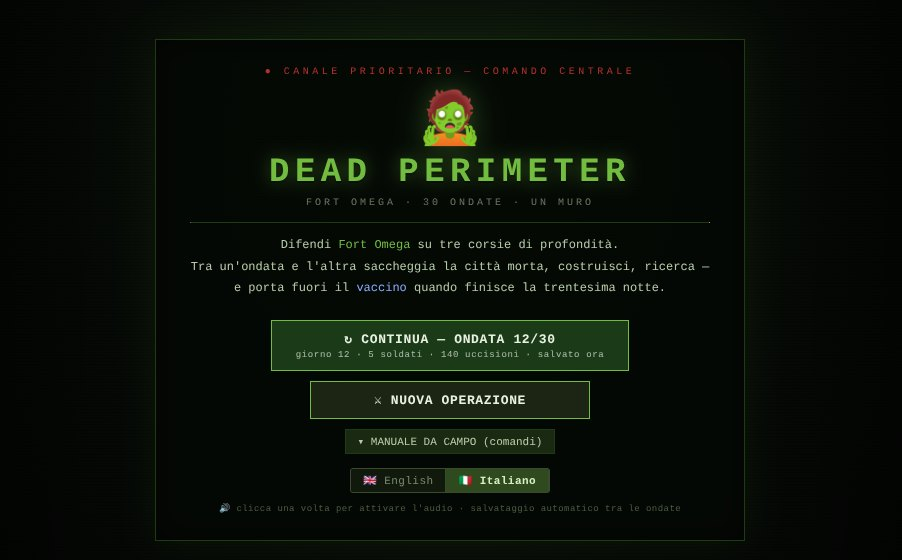
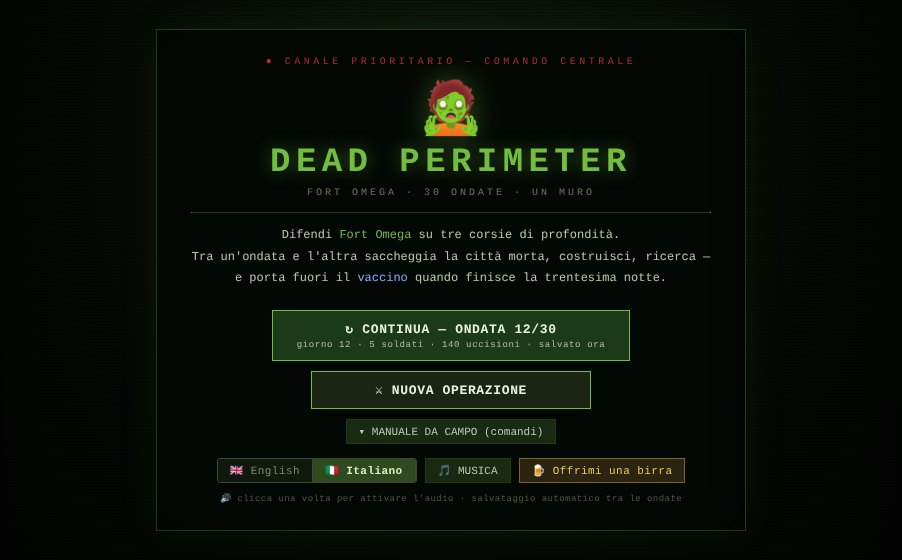
Keep civilians off sorties unless they volunteer
Civilians are there to be evacuated: the sortie picker shows them greyed
out. When fewer than two people are fit for a sortie, the expedition
screen offers ASK FOR VOLUNTEERS: each civilian in the squad accepts or
refuses (fixed per-person willingness, roll seeded by name and day).
Volunteers stay volunteers, are saved and survive bench/activate, and on
sorties aim less steadily and have less stamina.

Also updates the Italian menu screenshot.

diff --git a/src/DeadPerimeter.jsx b/src/DeadPerimeter.jsx
@@ -14,7 +14,7 @@ import { isHumanWaveNumber } from './data/humans.js';
 
 import { getAM, processSounds } from './audio/AudioEngine.js';
 
-import { mkSoldier } from './entities/soldier.js';
+import { mkSoldier, benchEntry, reserveOpts } from './entities/soldier.js';
 import { mkBarricade } from './entities/barricade.js';
 import { mkTurret } from './entities/turret.js';
 import { mkWave, mkHumanWave } from './entities/wave.js';
@@ -26,6 +26,7 @@ import { ensureQuests, refreshOffers, acceptJob, declineJob, deliverJob, canDeli
 import { MAX_ACTIVE, FORT_UNLOCKS, STORY } from './data/quests.js';
 import { cityDests, ensureCity, applyCityVisit } from './data/city.js';
 import { rollSiegeEvent } from './update/siegeEvents.js';
+import { sortieReady, askableCivilians, shortOfMen, askVolunteers } from './update/volunteers.js';
 import { dSiegeEvent } from './render/siegeEvents.js';
 import { WAVE_MODS, rollWaveMod, isBossWave, bossName } from './data/waveMods.js';
 import { mkGS } from './entities/gameState.js';
@@ -213,7 +214,7 @@ export default function DeadPerimeter() {
     const cur = expSolsRef.current;
     if (cur.includes(i)) {
       expSolsRef.current = cur.filter(x => x !== i);
-    } else if (cur.length < BALANCE.maxExpeditionParty) {
+    } else if (cur.length < BALANCE.maxExpeditionParty && sortieReady(gsRef.current?.soldiers?.[i] || {})) {
       expSolsRef.current = [...cur, i];
     } else {
       return;
@@ -221,6 +222,17 @@ export default function DeadPerimeter() {
     setExpSoldierIdxs([...expSolsRef.current]);
   }, []);
   const pickDest = useCallback(i => { expDstRef.current = i; setExpDestIdx(i); }, []);
+  // ASK FOR VOLUNTEERS: who stepped up / who refused, shown under the party.
+  const [volNote, setVolNote] = useState(null);
+  const askVols = useCallback(() => {
+    const gs = gsRef.current; if (!gs) return;
+    const res = askVolunteers(gs);
+    if (res.yes.length) logRadio({ line: 'Volunteers: {names}. Out there, keep the new ones behind you.', params: { names: res.yes.join(', ') }, who: { npc: 'hale' }, npc: true });
+    else logRadio({ line: "Nobody's stepping up. Can't say I blame them.", who: { npc: 'hale' }, npc: true });
+    saveGame(gs); setHasSave(true);
+    setVolNote(res);
+    setUi({ ...gs, soldiers: gs.soldiers.map(s => ({ ...s })) });
+  }, []);
 
   const toggleMute = useCallback(() => {
     const am = getAM();
@@ -477,7 +489,7 @@ export default function DeadPerimeter() {
     const gs = gsRef.current;
     if ((gs.expeditionsToday || 0) >= sortiesPerDay(gs)) return;
 
-    const party = idxs.map(i => gs.soldiers[i]).filter(s => s && s.state !== 'dead');
+    const party = idxs.map(i => gs.soldiers[i]).filter(s => s && s.state !== 'dead' && sortieReady(s));
     if (party.length === 0) return;
     const dest = expDestsRef.current[di];
     if (!dest) return;
@@ -756,7 +768,7 @@ export default function DeadPerimeter() {
     if (s.onRoof) return;
     if ((gs.reserve?.length || 0) >= BALANCE.maxReserveSoldiers) return;
     gs.reserve = gs.reserve || [];
-    gs.reserve.push({ name: s.name, weapon: s.weapon, civilian: !!s.civilian, veteran: !!s.veteran, hp: s.hp });
+    gs.reserve.push(benchEntry(s));
     gs.soldiers.splice(idx, 1);
     saveGame(gs); setHasSave(true);
     setUi({ ...gs, soldiers: gs.soldiers.map(s => ({ ...s })) });
@@ -766,7 +778,7 @@ export default function DeadPerimeter() {
     const gs = gsRef.current; if (!gs) return;
     const r = (gs.reserve || [])[idx]; if (!r) return;
     if (gs.soldiers.filter(s => s.state !== 'dead').length >= BALANCE.maxActiveSoldiers) return;
-    const ns = mkSoldier(r.name, r.weapon, 270, r.hp ?? 100, Math.floor(Math.random() * 3), !!r.civilian, false, { veteran: !!r.veteran });
+    const ns = mkSoldier(r.name, r.weapon, 270, r.hp ?? 100, Math.floor(Math.random() * 3), !!r.civilian, false, reserveOpts(r));
     ns.ammo = 0;
     gs.soldiers.push(ns);
     gs.reserve.splice(idx, 1);
@@ -1730,7 +1742,7 @@ export default function DeadPerimeter() {
   const resetExp = () => {
     setExpResult(null); setExpPhase(null); setExpEvents([]); setExpVisible(0);
     expSolsRef.current = []; expDstRef.current = null;
-    setExpSoldierIdxs([]); setExpDestIdx(null);
+    setExpSoldierIdxs([]); setExpDestIdx(null); setVolNote(null);
     // Destinations = every discovered location on the city map.
     expDestsRef.current = gsRef.current ? cityDests(gsRef.current) : [];
     setExpDests(expDestsRef.current);
@@ -1787,15 +1799,39 @@ export default function DeadPerimeter() {
               if (s.state === 'dead') return null;
               const picked = expSoldierIdxs.includes(i);
               const order = picked ? expSoldierIdxs.indexOf(i) + 1 : null;
+              // Civilians wait for the helicopter; only volunteers go out.
+              if (!sortieReady(s)) return (
+                <div key={s.id} title={t('Civilians are not sent on sorties. Ask for volunteers when the fort is short of men.')}
+                  style={{ ...card, cursor: 'not-allowed', borderColor: '#2a2a26', opacity: 0.4 }}>
+                  <div style={{ color: '#88ddff', fontWeight: 'bold', fontSize: '11px' }}>{s.name}</div>
+                  <div style={{ fontSize: '9px', color: C.txt }}>{t(WPN[s.weapon]?.name)}</div>
+                  <div style={{ fontSize: '9px', color: '#88ddff' }}>{t('civilian — to evacuate')}</div>
+                </div>
+              );
               return (
                 <div key={s.id} onClick={() => toggleSoldier(i)} style={{ ...card, cursor: 'pointer', borderColor: picked ? C.acc : C.uib, opacity: picked ? 1 : 0.7, position: 'relative' }}>
                   {order && <div style={{ position: 'absolute', top: 4, right: 6, background: C.acc, color: '#061006', fontSize: '9px', fontWeight: 'bold', borderRadius: '50%', width: '14px', height: '14px', textAlign: 'center', lineHeight: '14px' }}>{order}</div>}
                   <div style={{ color: C.acc, fontWeight: 'bold', fontSize: '11px' }}>{s.name}</div>
                   <div style={{ fontSize: '9px', color: C.txt }}>{t(WPN[s.weapon]?.name)}</div>
-                  <div style={{ fontSize: '9px', color: s.hp > 60 ? C.acc : s.hp > 30 ? C.wrn : C.dng }}>{s.hp}HP</div>
+                  <div style={{ fontSize: '9px', color: s.hp > 60 ? C.acc : s.hp > 30 ? C.wrn : C.dng }}>{s.hp}HP{s.volunteer && <span style={{ color: '#88ddff', marginLeft: '4px' }}>{t('· volunteer')}</span>}</div>
                 </div>
               );
             })}</div>
+            {gs && shortOfMen(gs) && (askableCivilians(gs).length > 0 || volNote) && (
+              <div style={{ marginTop: '6px', display: 'flex', gap: '8px', alignItems: 'center', flexWrap: 'wrap' }}>
+                {askableCivilians(gs).length > 0 && (
+                  <button style={{ ...btn('#1a2a3a', '#4488aa'), fontSize: '11px', padding: '4px 12px' }} onClick={askVols}>{t('🙋 ASK FOR VOLUNTEERS')}</button>
+                )}
+                <span style={{ fontSize: '9px', color: C.txt, opacity: 0.7 }}>{t('Fewer than {n} men fit for a sortie: the civilians in the squad can be asked to go out.', { n: BALANCE.volunteerMinAble })}</span>
+              </div>
+            )}
+            {volNote && (
+              <div style={{ fontSize: '10px', marginTop: '4px', lineHeight: '1.5' }}>
+                {volNote.yes.length > 0 && <div style={{ color: C.acc }}>{t('Stepped up: {names}', { names: volNote.yes.join(', ') })}</div>}
+                {volNote.no.length > 0 && <div style={{ color: C.wrn }}>{t('Refused: {names}', { names: volNote.no.join(', ') })}</div>}
+                {volNote.yes.length === 0 && <div style={{ color: C.dng }}>{t('Nobody volunteered today.')}</div>}
+              </div>
+            )}
             <div style={h2}>{t('CHOOSE DESTINATION')}</div>
             {gs && <CityMap city={ensureCity(gsRef.current || gs)} dests={expDests} selected={expDestIdx} onPick={pickDest} day={gs.day} jobs={ensureQuests(gsRef.current || gs).active} />}
             {gs && expDestIdx !== null && expDests[expDestIdx] && expDests[expDestIdx].locId === 'compound' && (
@@ -2290,6 +2326,7 @@ export default function DeadPerimeter() {
                   <div style={{ color: s.state === 'dead' ? C.dng : C.acc, fontWeight: 'bold', fontSize: '11px' }}>
                     {s.name} {s.state === 'dead' && '†'}
                     {s.civilian && s.state !== 'dead' && <span style={{ color: '#88ddff', fontSize: '9px', marginLeft: '2px' }}>{t('· civ')}</span>}
+                    {s.volunteer && s.state !== 'dead' && <span style={{ color: '#88ddff', fontSize: '9px', marginLeft: '2px' }}>{t('· volunteer')}</span>}
                     {s.veteran && s.state !== 'dead' && <span style={{ color: '#ffd54a', fontSize: '9px', marginLeft: '2px' }}>{t('· vet')}</span>}
                   </div>
                   <div style={{ fontSize: '9px', color: C.txt }}>{t(WPN[s.weapon]?.name)} · {t('Lane')} {t('FMB')[s.lane || 0]}</div>

diff --git a/src/update/volunteers.js b/src/update/volunteers.js
@@ -1,0 +1,40 @@
+// Civilian volunteers. Civilians in the squad man the wall but are not
+// sent on sorties: they are waiting for the helicopter. When the fort
+// is short of men the player can ask them to step up; a volunteer
+// stays one for good (soldier.volunteer, saved with the game).
+import { BALANCE } from '../data/difficulty.js';
+
+// Small string hash with a final mix, so 'name' and 'name|day' land
+// far apart.
+function hash01(str) {
+  let h = 0;
+  for (let i = 0; i < str.length; i++) h = (h * 31 + str.charCodeAt(i)) | 0;
+  h ^= h >>> 16; h = Math.imul(h, 0x45d9f3b); h ^= h >>> 16;
+  return (h >>> 0) / 4294967296;
+}
+
+export const sortieReady = s => !s.civilian || !!s.volunteer;
+
+// People who could go on a sortie today: alive, at the fort, and not a
+// civilian waiting for evac.
+export const ableForSortie = gs => (gs?.soldiers || []).filter(s => s.state !== 'dead' && !s.onExpedition && sortieReady(s));
+
+// Civilians in the squad who could be asked. Benched civilians (the
+// reserve) are not asked: they are the ones queued for the helicopter.
+export const askableCivilians = gs => (gs?.soldiers || []).filter(s => s.state !== 'dead' && !s.onExpedition && s.civilian && !s.volunteer);
+
+export const shortOfMen = gs => ableForSortie(gs).length < BALANCE.volunteerMinAble;
+
+// Willingness is a fixed trait per person (25-75%); the roll is seeded
+// by name and day, so asking twice in a day gets the same answer and a
+// new day gets a new one.
+export const willingness = s => 0.25 + 0.5 * hash01(`will|${s.name}`);
+
+export function askVolunteers(gs) {
+  const yes = [], no = [];
+  for (const s of askableCivilians(gs)) {
+    if (hash01(`ask|${s.name}|${gs.day}`) < willingness(s)) { s.volunteer = true; yes.push(s.name); }
+    else no.push(s.name);
+  }
+  return { yes, no };
+}

diff --git a/src/expedition/vaccineCampaign.js b/src/expedition/vaccineCampaign.js
@@ -2,7 +2,7 @@ import { ammoPool } from '../data/weapons.js';
 import { hasUnlock } from '../update/quests.js';
 import { mkMission } from '../update/mission.js';
 import { VACCINE_SCENARIOS } from '../data/vaccineMission.js';
-import { mkSoldier } from '../entities/soldier.js';
+import { mkSoldier, benchEntry, reserveOpts } from '../entities/soldier.js';
 import { recordDeath } from '../entities/gameState.js';
 import { KIND_HP, RECRUIT_WEAPONS } from '../data/expeditions.js';
 
@@ -20,7 +20,7 @@ function gatherVaccineParty(gs) {
   for (const r of (gs.reserve || [])) {
     const weapon = r.weapon || RECRUIT_WEAPONS[0];
     const hp = r.hp ?? (r.civilian ? KIND_HP.civilian : r.veteran ? KIND_HP.veteran : KIND_HP.recruit);
-    const s = mkSoldier(r.name, weapon, 200, hp, 0, !!r.civilian, false, { veteran: !!r.veteran });
+    const s = mkSoldier(r.name, weapon, 200, hp, 0, !!r.civilian, false, reserveOpts(r));
     s.state = 'idle';
     s.fromReserve = true;
     promoted.push(s);
@@ -238,11 +238,7 @@ export function finishVaccineCampaign(campaign, gs) {
     const idx = gs.soldiers.indexOf(s);
     if (idx >= 0) gs.soldiers.splice(idx, 1);
     if (s.state !== 'dead') {
-      gs.reserve.push({
-        name: s.name, weapon: s.weapon,
-        civilian: !!s.civilian, veteran: !!s.veteran,
-        hp: s.hp,
-      });
+      gs.reserve.push(benchEntry(s));
     }
   }
   // advanceVaccineScenario already counted the last act when it ran out

diff --git a/src/entities/soldier.js b/src/entities/soldier.js
@@ -14,7 +14,7 @@ function pickVoicePitch(name, kind) {
 }
 
 // mkSoldier(name, weapon, destX, hp?, lane?, civilian?, onRoof?, opts?)
-//   opts = { veteran?: bool }
+//   opts = { veteran?: bool, volunteer?: bool }
 // HP cap depends on the kind: civilians 70, veterans 120, recruits 100.
 // hp defaults to that cap when not explicitly passed.
 export const mkSoldier = (name, weapon, destX, hp, lane = 0, civilian = false, onRoof = false, opts = {}) => {
@@ -29,6 +29,7 @@ export const mkSoldier = (name, weapon, destX, hp, lane = 0, civilian = false, o
     kind,
     ammo: 0, maxAmmo: w.ammo, state: 'walk', facing: 1,
     civilian, veteran, onRoof,
+    ...(civilian && opts.volunteer ? { volunteer: true } : {}),
     voicePitch: pickVoicePitch(name, kind),
     lastShot: 0, reloadStart: 0, shootAt: 0, knifeTimer: 0, recoil: 0,
     walkPhase: Math.random() * Math.PI * 2, hurtTimer: 0, reloadTriggered: false,
@@ -38,3 +39,11 @@ export const mkSoldier = (name, weapon, destX, hp, lane = 0, civilian = false, o
     upgrades: {},
   };
 };
+
+// Bench entry (gs.reserve) for a soldier, and the mkSoldier opts to
+// bring one back.
+export const benchEntry = s => ({
+  name: s.name, weapon: s.weapon, civilian: !!s.civilian, veteran: !!s.veteran,
+  ...(s.volunteer ? { volunteer: true } : {}), hp: s.hp,
+});
+export const reserveOpts = r => ({ veteran: !!r.veteran, volunteer: !!r.volunteer });

diff --git a/src/entities/persistence.js b/src/entities/persistence.js
@@ -35,6 +35,7 @@ export function saveGame(gs) {
         state: s.state === 'dead' ? 'dead' : 'idle',
         facing: s.facing,
         civilian: !!s.civilian, veteran: !!s.veteran,
+        ...(s.volunteer ? { volunteer: true } : {}),
         kind: s.kind,
         onRoof: !!s.onRoof,
         upgrades: { ...(s.upgrades || {}) },
@@ -48,6 +49,7 @@ export function saveGame(gs) {
       reserve: (gs.reserve || []).map(r => ({
         name: r.name, weapon: r.weapon,
         civilian: !!r.civilian, veteran: !!r.veteran,
+        ...(r.volunteer ? { volunteer: true } : {}),
         hp: r.hp ?? 100,
       })),
       expeditionsToday: gs.expeditionsToday || 0,
@@ -106,6 +108,8 @@ export function loadGame(mkGS) {
         ammo: s.ammo, maxAmmo: s.maxAmmo,
         state: s.state, facing: s.facing,
         civilian, veteran, kind,
+        // Civilians who stepped up for sorties; absent in older saves.
+        ...(civilian && s.volunteer ? { volunteer: true } : {}),
         onRoof: s.onRoof,
         lastShot: 0, reloadStart: 0, shootAt: 0, knifeTimer: 0, recoil: 0,
         walkPhase: Math.random() * Math.PI * 2, hurtTimer: 0,

diff --git a/src/update/mission.js b/src/update/mission.js
@@ -92,6 +92,8 @@ function missionModifiers(orig, researchCompleted) {
     rlMul: getSoldierPerkEffect(orig, 'reloadMul', 1) * res('reloadMul', 1),
     rangeBonus: getSoldierPerkEffect(orig, 'rangeBonus', 0) + (isSniper ? res('sniperRangeBonus', 0) : 0),
     tankMul: wbase(orig.weapon) === 'rifle' ? res('rifleVsTankMul', 1) : 1,
+    // Civilian volunteers: untrained aim, less wind.
+    ...(orig.volunteer ? { aimJitter: BALANCE.volunteerAimJitter, stamMul: BALANCE.volunteerStamMul } : {}),
   };
 }
 const effRl = (who, w) => w.rl * (who.rlMul || 1);
@@ -787,7 +789,8 @@ function fireGun(m, who, w, range) {
   // kept on each bullet so the collision pass can match it with
   // targets on the same level.
   const shooterY = (who.standingY || 0);
-  const d = dep(who);
+  // An unsteady hand (volunteers) sends the shot a little off the line.
+  const d = dep(who) + (who.aimJitter ? (Math.random() - 0.5) * 2 * who.aimJitter : 0);
   const bulletY = MGY + d - 42 * depthSc(d) + shooterY;
   for (let p = 0; p < (w.pel || 1); p++) {
     const sp2 = (Math.random() - 0.5) * w.sp * 2;

diff --git a/src/i18n/it/ui.js b/src/i18n/it/ui.js
@@ -339,4 +339,12 @@ export default {
   'EXTRACTION COMPLETE': 'ESTRAZIONE COMPLETATA',
   'You held the wall for 30 waves. Whoever made it out of Fort Omega is on the road now.': "Avete tenuto il muro per 30 ondate. Chi è uscito vivo da Fort Omega ora è in viaggio.",
   '🍺 Buy me a beer': '🍺 Offrimi una birra',
+  'civilian — to evacuate': 'civile — da evacuare',
+  'Civilians are not sent on sorties. Ask for volunteers when the fort is short of men.': 'I civili non vanno in sortita. Chiedi volontari quando al forte mancano uomini.',
+  '· volunteer': '· volontario',
+  '🙋 ASK FOR VOLUNTEERS': '🙋 CHIEDI VOLONTARI',
+  'Fewer than {n} men fit for a sortie: the civilians in the squad can be asked to go out.': 'Meno di {n} uomini in grado di uscire: si può chiedere ai civili della squadra di andare in sortita.',
+  'Stepped up: {names}': 'Si sono offerti: {names}',
+  'Refused: {names}': 'Hanno rifiutato: {names}',
+  'Nobody volunteered today.': 'Oggi nessuno si è offerto.',
 };

diff --git a/src/update/siege.js b/src/update/siege.js
@@ -7,7 +7,7 @@ import { BALANCE, RESEARCHES, waveClearAmmoFor, getSoldierPerkEffect } from '../
 import { TRANSMISSION_WAVES } from '../data/transmissions.js';
 import { mkZombie } from '../entities/zombie.js';
 import { mkHuman } from '../entities/human.js';
-import { mkSoldier } from '../entities/soldier.js';
+import { mkSoldier, reserveOpts } from '../entities/soldier.js';
 import { recordDeath } from '../entities/gameState.js';
 import { pushRadio } from '../audio/radio.js';
 import { WAVE_MODS, rollWaveMod } from '../data/waveMods.js';
@@ -686,7 +686,7 @@ export function update(gs, now, dt) {
         const r = gs.reserve.shift();
         const ns = mkSoldier(
           r.name, r.weapon, 270, r.hp ?? undefined,
-          Math.floor(Math.random() * 3), !!r.civilian, false, { veteran: !!r.veteran },
+          Math.floor(Math.random() * 3), !!r.civilian, false, reserveOpts(r),
         );
         ns.ammo = 0;
         gs.soldiers.push(ns);

diff --git a/src/data/difficulty.js b/src/data/difficulty.js
@@ -65,6 +65,12 @@ export const BALANCE = {
   evacSniperAmmoPerCiv: 2,
   evacMaterialsPerCiv: 8,
 
+  // Civilian volunteers for sorties (asked only when the fort is short
+  // of men; see update/volunteers.js)
+  volunteerMinAble: 2,              // ASK FOR VOLUNTEERS shows below this many sortie-able people
+  volunteerAimJitter: 6,            // sortie shots leave up to ±6 px off their depth (hit window ±13)
+  volunteerStamMul: 0.8,            // less stamina on sorties
+
   // Story / endgame
   maxWaves: 30,                     // wave 30 = mega-wave + extraction finale
   megaWaveMultiplier: 2.5,          // wave 30 zombie counts scaled by this

diff --git a/src/entities/gear.js b/src/entities/gear.js
@@ -6,7 +6,7 @@ import { getSoldierPerkEffect } from '../data/difficulty.js';
 // over time. A winded soldier swings much slower. Endurance skill
 // raises both the pool and the recovery.
 export const SWING_COST = 12, JUMP_COST = 18;
-export const maxStam = sol => 100 * getSoldierPerkEffect(sol, 'stamMul', 1);
+export const maxStam = sol => 100 * getSoldierPerkEffect(sol, 'stamMul', 1) * (sol.stamMul || 1);
 export function tickStam(sol, dt) {
   const mx = maxStam(sol);
   sol.stam = Math.min(mx, (sol.stam ?? mx) + 0.022 * dt * getSoldierPerkEffect(sol, 'stamMul', 1));

diff --git a/src/i18n/it/radio.js b/src/i18n/it/radio.js
@@ -66,4 +66,6 @@ export default {
   'Tell my family...': 'Dite alla mia famiglia...',
   'Hold the line!': 'Tenete la linea!',
   'No more rounds!': 'Niente più colpi!',
+  'Volunteers: {names}. Out there, keep the new ones behind you.': 'Volontari: {names}. Là fuori tenete i nuovi dietro di voi.',
+  "Nobody's stepping up. Can't say I blame them.": 'Nessuno si fa avanti. Non posso dargli torto.',
 };

diff --git a/CODE.md b/CODE.md
@@ -172,9 +172,9 @@ button).
 
 **Persisted fields (v3)**
 `day, wave, baseHp, baseMaxHp, resources, soldiers (with upgrades, kind,
-veteran, civilian, onRoof, hp, maxHp, ammo, maxAmmo, weapon, lane, x,
+veteran, civilian, volunteer, onRoof, hp, maxHp, ammo, maxAmmo, weapon, lane, x,
 destX, facing, state, name, id), barricades, turrets, score, kills,
-reserve (name/weapon/civilian/veteran/hp), expeditionsToday,
+reserve (name/weapon/civilian/veteran/volunteer/hp), expeditionsToday,
 lastEvacWave, lastFoodReport, transmissionsDone, lastSupplyDrop,
 usedNames (serialised as Array), workbench, researchLab, research,
 playMs, soldiersLost, civiliansLost, savedAt, v.`
@@ -281,7 +281,8 @@ Five exports:
   `maxWaves (30)`, `maxActiveSoldiers (6)`, `maxReserveSoldiers (10)`,
   `expeditionsPerDay (2)`, `maxExpeditionParty (3)`, `maxTurrets (2)`,
   `maxBarricades (4)`, `evacMinReserve (3)`, `evacWaveCooldown (3)`,
-  `evac*PerCiv`, `foodPerPersonPerDay (2)`, `starveDmg (15)`,
+  `evac*PerCiv`, `volunteerMinAble (2)`, `volunteerAimJitter (6)`,
+  `volunteerStamMul (0.8)`, `foodPerPersonPerDay (2)`, `starveDmg (15)`,
   `wallRepairCost (8)`, `wallRepairHp (30)`, `waveClearAmmo (15 + 2×wave, max 60)`,
   `sortieFoodCostPerSoldier (3)`, `missionGoalKillRatio (0.45)`,
   `missionActivationRange (700)`, `behindBarricadeDmgMul (0.30)`,
@@ -388,7 +389,7 @@ Pure factory functions. No rendering, no audio.
 
 | Module | Export | Returns |
 | --- | --- | --- |
-| `soldier.js` | `mkSoldier(name, weapon, destX, hp?, lane?, civilian?, onRoof?, opts?)` | Soldier object. Stamps `kind` (recruit / civilian / veteran), `maxHp` from `KIND_HP`, deterministic `voicePitch`, empty `upgrades: {}` perk map, all transient state zeroed. |
+| `soldier.js` | `mkSoldier(name, weapon, destX, hp?, lane?, civilian?, onRoof?, opts?)` | Soldier object. Stamps `kind` (recruit / civilian / veteran), `maxHp` from `KIND_HP`, deterministic `voicePitch`, empty `upgrades: {}` perk map, all transient state zeroed. `opts`: `veteran`, `volunteer`. Also `benchEntry(s)` (soldier → reserve entry) and `reserveOpts(r)` (reserve entry → `mkSoldier` opts). |
 | `zombie.js` | `mkZombie(type)` | Zombie object spawning at `x = WORLD_W` (siege edge), random lane, jittered speed. |
 | `human.js` | `mkHuman(type)` | Hostile human with `hostile: true`. |
 | `barricade.js` | `mkBarricade(x)` | 140-HP perspective wall spanning all lanes. |
@@ -688,6 +689,23 @@ in charge:
 Rooms reset everyone to the room's floor (`placeParty`), so a climb
 in progress ends there. A follower carrying the vaccine climbs like
 the rest; if they fall up there the vial drops on that floor.
+
+#### `update/volunteers.js` — civilians on sorties
+
+Civilians (`civilian: true`) hold the wall but don't go on sorties;
+they're waiting for the helicopter. `sortieReady(s)` is the picker's
+filter (`!civilian || volunteer`). `shortOfMen(gs)` is true when fewer
+than `BALANCE.volunteerMinAble` alive, at-the-fort soldiers are
+sortie-ready; the expedition screen then shows ASK FOR VOLUNTEERS.
+`askVolunteers(gs)` asks each non-volunteer civilian in the squad (not
+the reserve: those are queued for the evac). Willingness is a fixed
+per-name trait (25–75 %), the roll is seeded by name + day, so asking
+again the same day gives the same answers. Accepting sets
+`volunteer: true` for good (saved, carried to and from the bench by
+`benchEntry` / `reserveOpts` in `entities/soldier.js`). On a sortie
+`missionModifiers` gives volunteers `aimJitter` (shots leave up to
+±`volunteerAimJitter` px off their depth) and `stamMul`
+(`volunteerStamMul`, read by `maxStam`).
 
 ### 2.7 `src/expedition/`
 
@@ -1016,6 +1034,7 @@ are right next to the constants.
 | City map + explore missions | `data/city.js` (locations, `gs.city` state, `cityDests`, `cityDayTick`, `applyCityVisit`), `ui/CityMap.jsx`, `update/cityMission.js` (seeded layout, locked doors, van exit, `isIndoorAt`), `render/cityMission.js`, `data/expeditions.js` (`MISSION_W` live binding + `setMissionWidth`), `update/mission.js` (explore branches), `DeadPerimeter.jsx` (expedition screen, travel cost, `applyCityVisit` + save on finalize) |
 | Hostile human waves | `data/humans.js`, `entities/{human,wave,gameState}.js`, `render/human.js`, `update/siege.js`, `render/hud.js` (banner) |
 | Helicopter EVAC | `render/evac.js`, `DeadPerimeter.jsx` (`callEvac`, `applyEvac`, `skipEvac`, `evacRef`) |
+| Civilian volunteers (civilians stay off sorties unless they step up) | `update/volunteers.js`, `DeadPerimeter.jsx` (party picker, `askVols`, `volNote`), `update/mission.js` (`missionModifiers`: `aimJitter`, `stamMul`; `fireGun`), `entities/gear.js` (`maxStam`), `entities/soldier.js` (`benchEntry`, `reserveOpts`), `entities/persistence.js`, `data/difficulty.js` (`volunteer*`) |
 | Opening intro | `render/intro.js`, `DeadPerimeter.jsx` (`newGame` → `introRef`, `finishIntro`) |
 | Defeat cinematic | `render/defeat.js`, `DeadPerimeter.jsx` (siege transition → `defeatRef`, `finishDefeat`) |
 | Transmission cinematics | `data/transmissions.js`, `render/transmission.js`, `audio/radioVoice.js`, `update/siege.js` (queue at wave 10/20/25), `DeadPerimeter.jsx` (`transmissionRef`, `finishTransmission`) |
